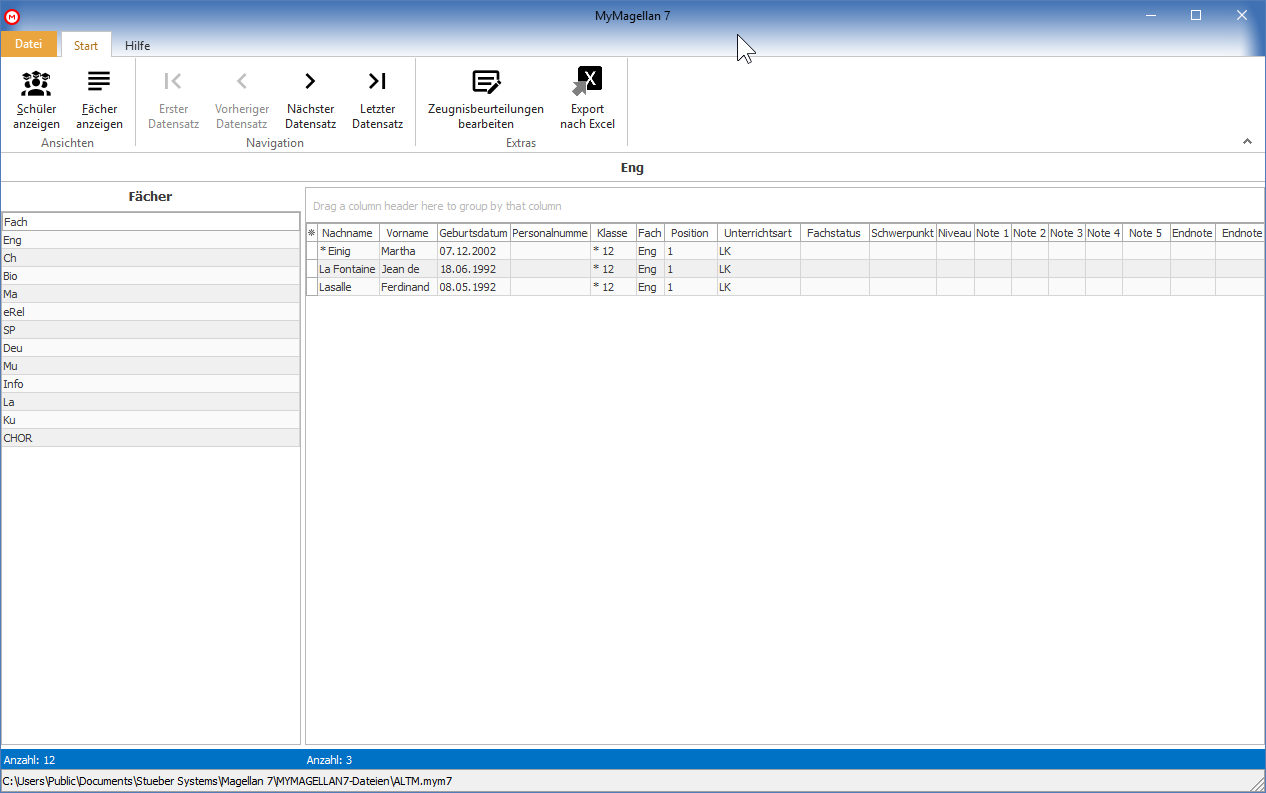
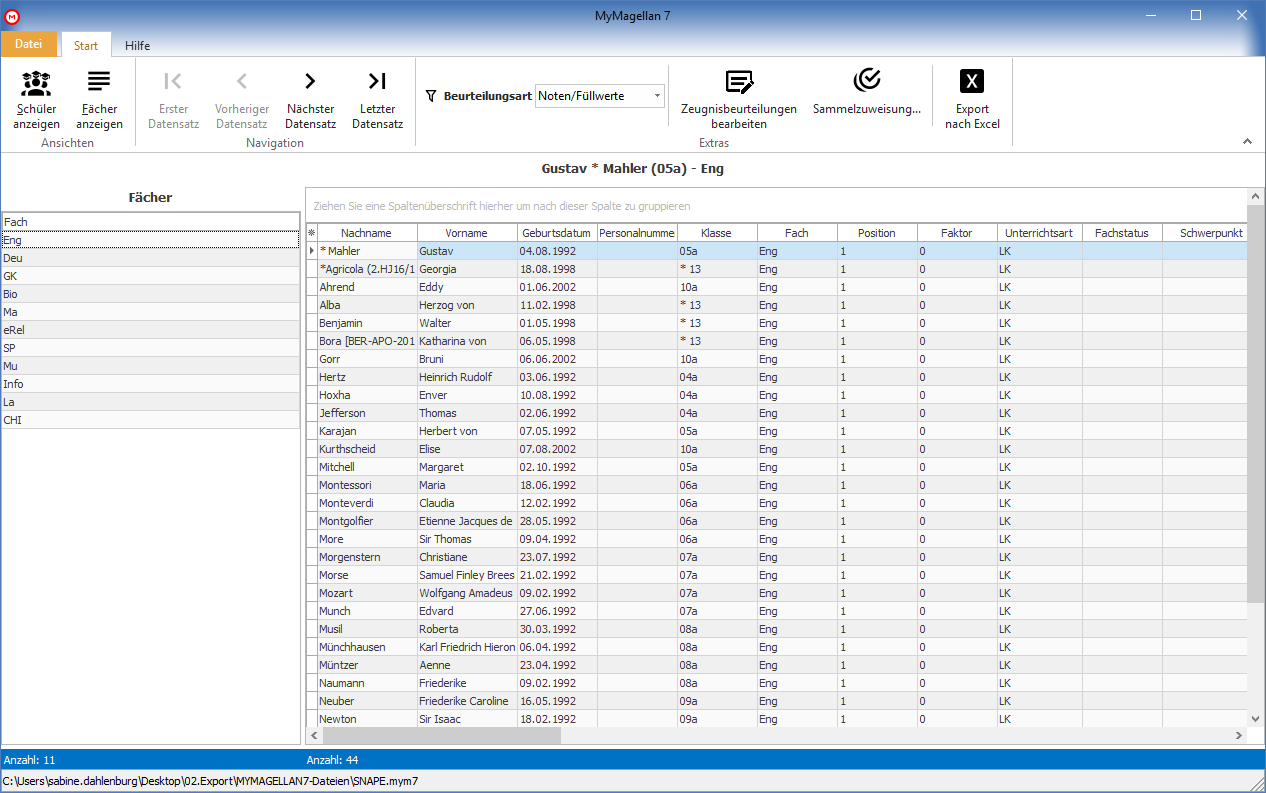
no message

diff --git a/docs/noteneingabe.md b/docs/noteneingabe.md
@@ -201,7 +201,15 @@ Um die Daten für Ihre Schüler aus Sicht der Fächer einzugeben klicken Sie bit
 
 ![Aufruf der Fächeransicht](/assets/images/21.png)
 
-Es öffnet sich ein zweigeteiltes Fenster, auf der linken Seite wählen Sie das Fach aus, für das Sie Leistungen erfassen möchten, auf der rechten Seite werden die dazugefundenen Daten in Listenform gezeigt. 
+Nach dem Klick auf `Fächer anzeigen` öffnet sich ein zweigeteiltes Fenster, auf der linken Seite wählen Sie das Fach aus, für das Sie Leistungen erfassen möchten, auf der rechten Seite werden die dazugefundenen Daten in Listenform gezeigt. Diese Ansicht zeigt beim ersten Aufruf erst nur die Schüler, die mit Noten beurteilt werden und blendet Schüler, die mit Texten oder Punkten beurteilt werden aus.
+
+!!! warning "Wichtig"
+
+     Schüler können je nach Einstellung in MAGELLAN unterschiedlich beurteilt werden: nach Punkten, nach Noten oder auch mit Texten. Daher kann in den Notenspalten Folgendes gezeigt werden:
+     * nichts (für Schüler, die nach Testen zu beurteilen sind) 
+     * Noten (Beispiel 1 für sehr gut)
+     * Punkte (1 für mangelhaft)
+  Um Verwechslungen vorzubeugen wird diese Ansicht stets gefiltert dargestellt, im Standard werden nur Schüler gezeigt, die mit Noten beurteilt werden. Sie können die Filterung in der oberen Menüleiste anpassen.
 
 ![Eingabe nach Fächern](/assets/images/20.png)
 
